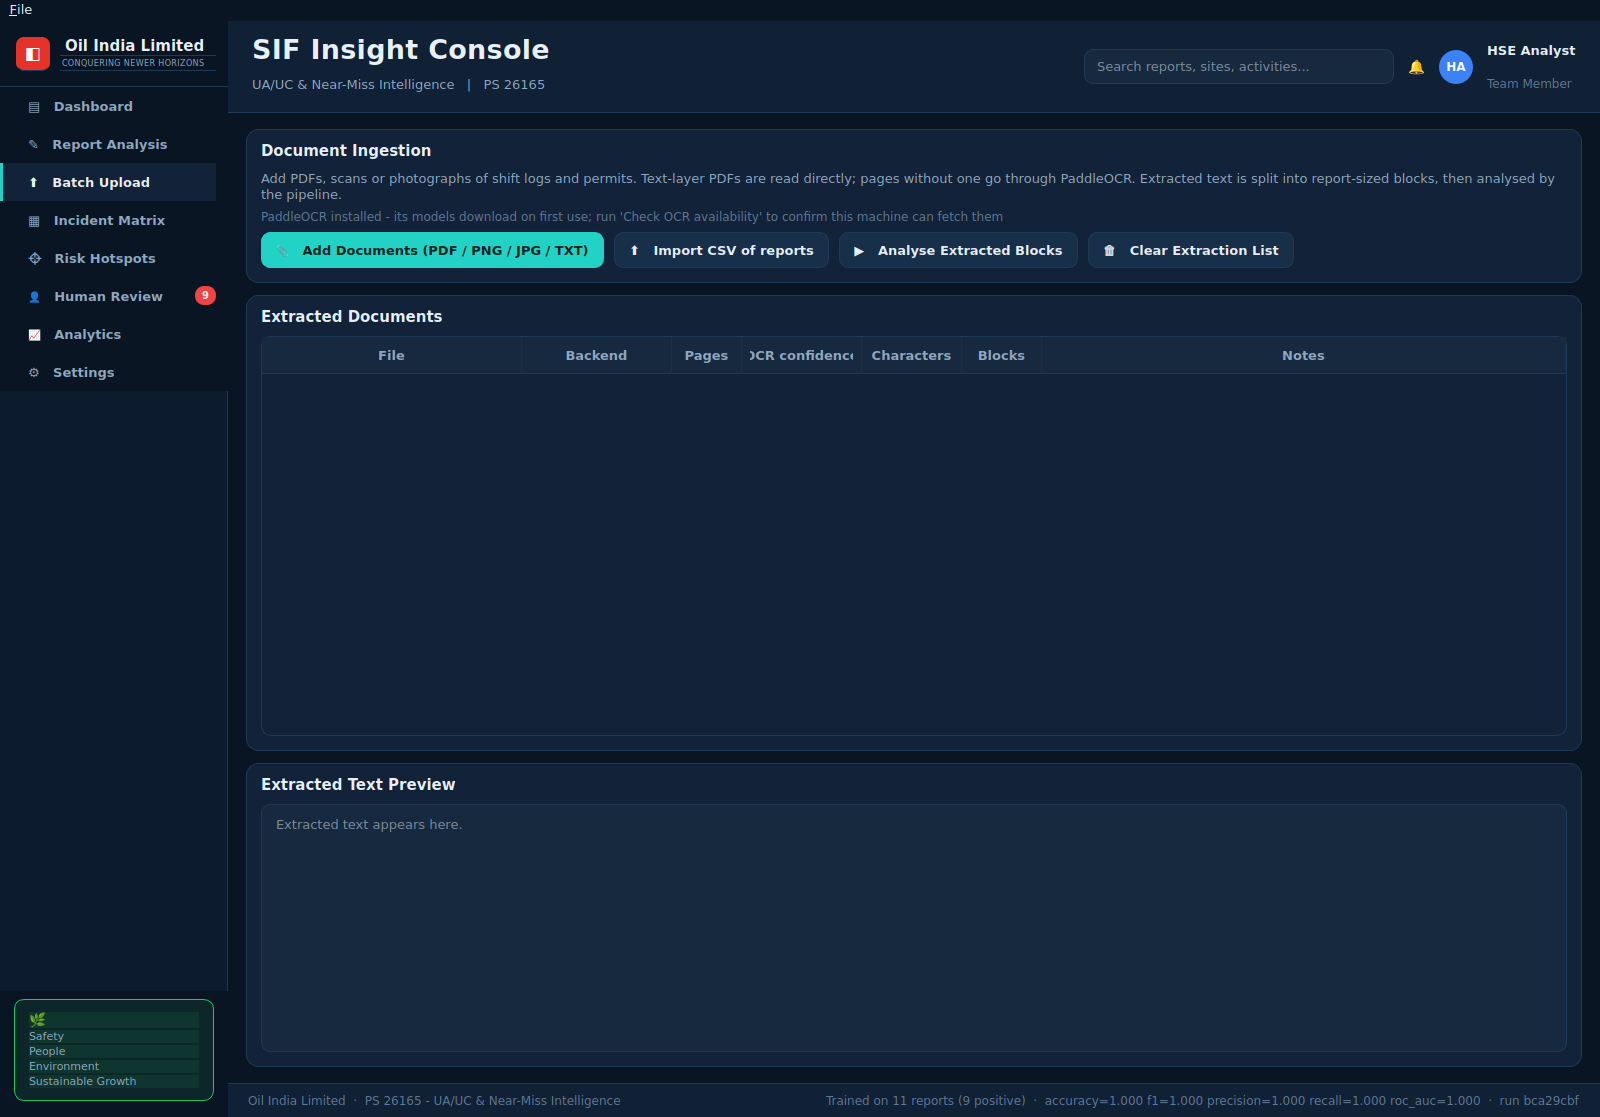
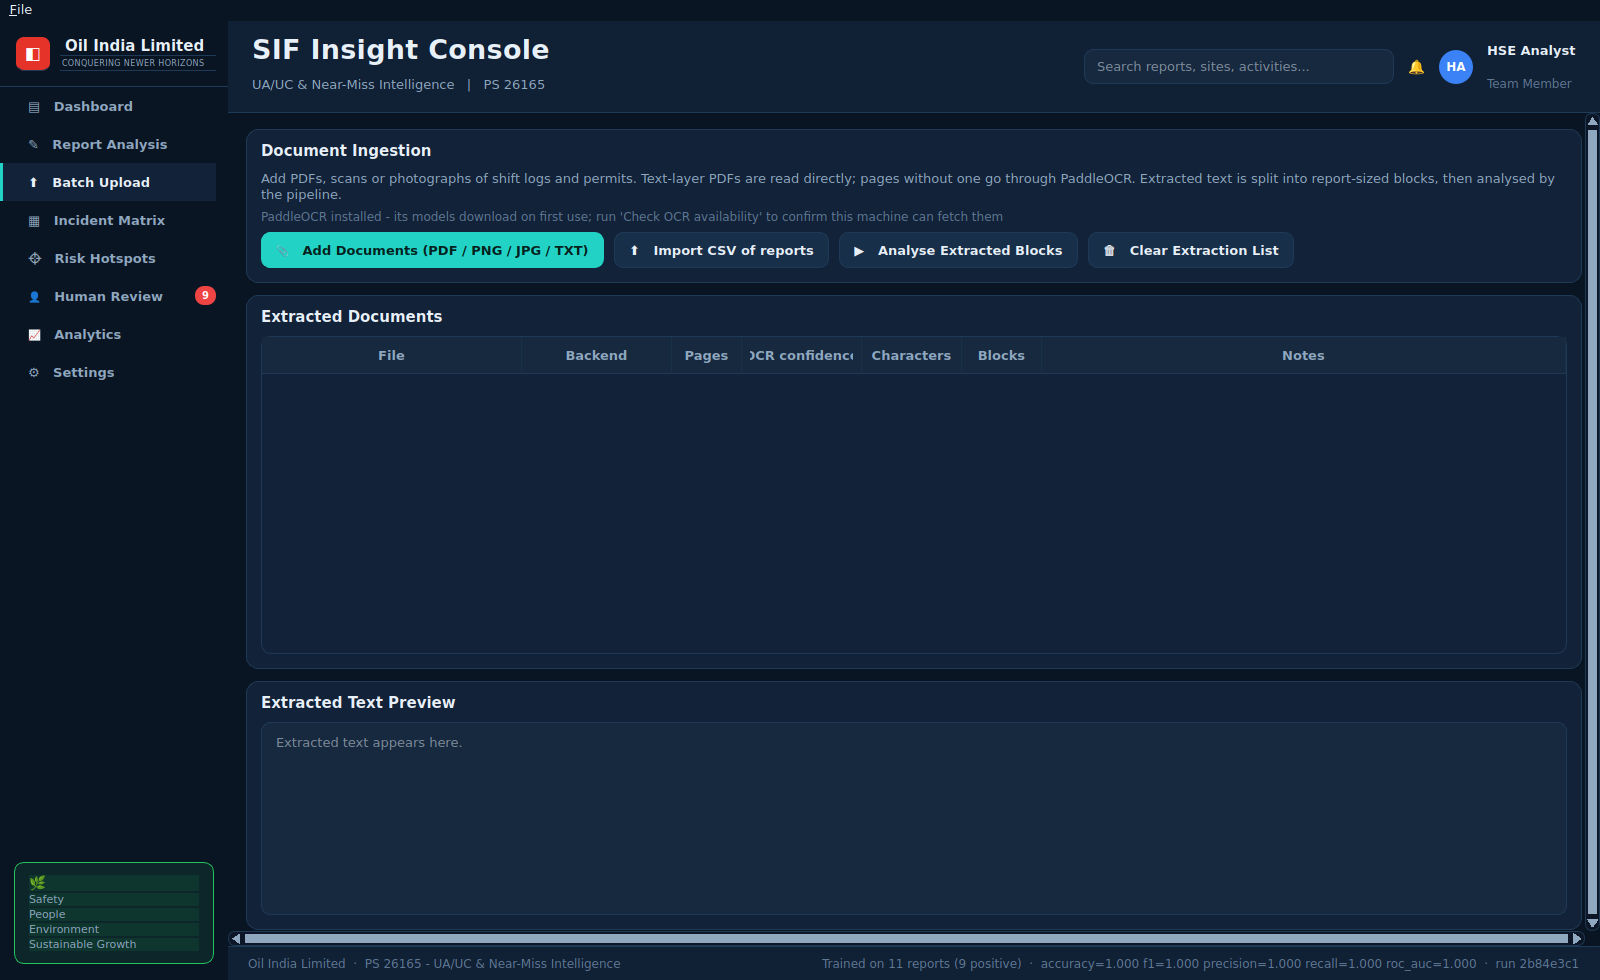
Style the scroll controls and make every page scrollable
Scrollbars now match the rest of the console: a sunken track, a light
rounded thumb with hover and pressed states, and stepper arrows at both
ends. The arrows ship as small PNGs in ui/assets - a Qt style sheet cannot
draw the triangles reliably across styles, and the border trick rendered
them as blocks.

Coverage: the dashboard and batch upload pages now sit in scroll areas
like analytics and settings, each with a minimum content height so a short
window scrolls instead of squeezing the panels flat; the sidebar nav
scrolls when the window is too short for all eight entries; and tables
scroll per pixel in both directions rather than jumping a row at a time.

Verified by rendering the app at 1180x700 and auditing every scrollable
widget on all seven pages: bars appear where content overflows, all at the
themed 15 px size. Two tests keep it honest - one asserts every asset the
style sheet references exists, one that the pages stay scrollable.

diff --git a/ui/theme.py b/ui/theme.py
@@ -8,7 +8,15 @@ The stylesheet is a plain Qt style sheet string; widgets that need painting
 
 from __future__ import annotations
 
-__all__ = ["C", "STYLESHEET", "BAND_COLORS", "SEVERITY_COLORS", "CATEGORICAL"]
+import os
+
+__all__ = ["C", "STYLESHEET", "BAND_COLORS", "SEVERITY_COLORS", "CATEGORICAL", "ASSETS"]
+
+#: Directory holding the small PNG arrows used by the scroll controls. Qt style
+#: sheets cannot draw a triangle reliably across styles, so the stepper arrows
+#: ship as assets and are addressed by absolute path (forward slashes, which Qt
+#: wants on every platform).
+ASSETS = os.path.dirname(os.path.abspath(__file__)).replace(os.sep, "/") + "/assets"
 
 
 class C:
@@ -35,6 +43,11 @@ class C:
     ACCENT_DIM = "#0e7a72"
     BLUE = "#3b82f6"
     PURPLE = "#8b5cf6"
+
+    # Scroll controls.
+    SCROLL_TRACK = "#0c1626"
+    SCROLL_THUMB = "#8fa8c0"
+    SCROLL_THUMB_HOVER = "#b9cde0"
 
     # Status.
     DANGER = "#ef4444"
@@ -187,11 +200,92 @@ QProgressBar {{
     text-align: center;
 }}
 QProgressBar::chunk {{ background-color: {C.ACCENT}; border-radius: 5px; }}
-QScrollBar:vertical {{ background: transparent; width: 10px; margin: 2px; }}
-QScrollBar::handle:vertical {{ background: {C.BORDER}; border-radius: 5px; min-height: 30px; }}
-QScrollBar::add-line, QScrollBar::sub-line {{ height: 0px; width: 0px; }}
-QScrollBar:horizontal {{ background: transparent; height: 10px; margin: 2px; }}
-QScrollBar::handle:horizontal {{ background: {C.BORDER}; border-radius: 5px; min-width: 30px; }}
+/* Scroll controls: a sunken track, a light rounded thumb and stepper arrows at
+   both ends, so it is obvious at a glance that a panel has more content. The
+   arrows are drawn with the CSS border-triangle trick - no image assets. */
+QScrollBar:vertical {{
+    background: {C.SCROLL_TRACK};
+    width: 15px;
+    margin: 0px;
+    border: 1px solid {C.BORDER};
+    border-radius: 7px;
+}}
+QScrollBar::handle:vertical {{
+    background: {C.SCROLL_THUMB};
+    border-radius: 5px;
+    min-height: 34px;
+    margin: 16px 2px 16px 2px;
+}}
+QScrollBar::handle:vertical:hover {{ background: {C.SCROLL_THUMB_HOVER}; }}
+QScrollBar::handle:vertical:pressed {{ background: {C.TEXT}; }}
+QScrollBar::sub-line:vertical {{
+    background: transparent;
+    border: none;
+    height: 16px;
+    subcontrol-position: top;
+    subcontrol-origin: margin;
+}}
+QScrollBar::add-line:vertical {{
+    background: transparent;
+    border: none;
+    height: 16px;
+    subcontrol-position: bottom;
+    subcontrol-origin: margin;
+}}
+QScrollBar::up-arrow:vertical {{
+    image: url({ASSETS}/arrow_up.png);
+    width: 11px;
+    height: 8px;
+}}
+QScrollBar::down-arrow:vertical {{
+    image: url({ASSETS}/arrow_down.png);
+    width: 11px;
+    height: 8px;
+}}
+QScrollBar::up-arrow:vertical:hover {{ image: url({ASSETS}/arrow_up_hover.png); }}
+QScrollBar::down-arrow:vertical:hover {{ image: url({ASSETS}/arrow_down_hover.png); }}
+QScrollBar:horizontal {{
+    background: {C.SCROLL_TRACK};
+    height: 15px;
+    margin: 0px;
+    border: 1px solid {C.BORDER};
+    border-radius: 7px;
+}}
+QScrollBar::handle:horizontal {{
+    background: {C.SCROLL_THUMB};
+    border-radius: 5px;
+    min-width: 34px;
+    margin: 2px 16px 2px 16px;
+}}
+QScrollBar::handle:horizontal:hover {{ background: {C.SCROLL_THUMB_HOVER}; }}
+QScrollBar::handle:horizontal:pressed {{ background: {C.TEXT}; }}
+QScrollBar::sub-line:horizontal {{
+    background: transparent;
+    border: none;
+    width: 16px;
+    subcontrol-position: left;
+    subcontrol-origin: margin;
+}}
+QScrollBar::add-line:horizontal {{
+    background: transparent;
+    border: none;
+    width: 16px;
+    subcontrol-position: right;
+    subcontrol-origin: margin;
+}}
+QScrollBar::left-arrow:horizontal {{
+    image: url({ASSETS}/arrow_left.png);
+    width: 8px;
+    height: 11px;
+}}
+QScrollBar::right-arrow:horizontal {{
+    image: url({ASSETS}/arrow_right.png);
+    width: 8px;
+    height: 11px;
+}}
+QScrollBar::left-arrow:horizontal:hover {{ image: url({ASSETS}/arrow_left_hover.png); }}
+QScrollBar::right-arrow:horizontal:hover {{ image: url({ASSETS}/arrow_right_hover.png); }}
+QScrollBar::add-page, QScrollBar::sub-page {{ background: transparent; }}
 QStatusBar {{ background-color: {C.HEADER}; color: {C.TEXT_DIM}; }}
 QToolTip {{
     background-color: {C.PANEL_ALT};

diff --git a/ui/views.py b/ui/views.py
@@ -9,7 +9,7 @@ from __future__ import annotations
 
 from typing import Dict, Optional, Sequence, Tuple
 
-from PyQt6.QtCore import pyqtSignal
+from PyQt6.QtCore import Qt, pyqtSignal
 from PyQt6.QtWidgets import (
     QCheckBox,
     QComboBox,
@@ -103,12 +103,21 @@ DOCUMENT_COLUMNS: Sequence[Tuple[str, str, int]] = (
 )
 
 
-def _scrollable(widget: QWidget) -> QScrollArea:
-    """Wrap a page so it stays usable on a small screen."""
+def _scrollable(widget: QWidget, minimum_height: int = 0) -> QScrollArea:
+    """Wrap a page so it stays usable on a small screen.
+
+    ``minimum_height`` is the point below which the page stops compressing and
+    starts scrolling instead - without it a Qt layout keeps shrinking its
+    children and the scroll bar never appears.
+    """
+    if minimum_height:
+        widget.setMinimumHeight(minimum_height)
     area = QScrollArea()
     area.setWidgetResizable(True)
     area.setFrameShape(QFrame.Shape.NoFrame)
     area.setWidget(widget)
+    area.setHorizontalScrollBarPolicy(Qt.ScrollBarPolicy.ScrollBarAsNeeded)
+    area.setVerticalScrollBarPolicy(Qt.ScrollBarPolicy.ScrollBarAsNeeded)
     return area
 
 
@@ -123,14 +132,22 @@ class DashboardView(QWidget):
     row_selected = pyqtSignal(int)
     review_requested = pyqtSignal()
 
+    #: Below this the dashboard scrolls instead of squeezing its panels.
+    MIN_CONTENT_HEIGHT = 860
+
     def __init__(self) -> None:
         super().__init__()
-        layout = QVBoxLayout(self)
+        content = QWidget()
+        layout = QVBoxLayout(content)
         layout.setContentsMargins(18, 16, 18, 12)
         layout.setSpacing(14)
         layout.addLayout(self._build_kpis())
         layout.addLayout(self._build_charts(), stretch=2)
         layout.addLayout(self._build_workspace(), stretch=5)
+
+        outer = QVBoxLayout(self)
+        outer.setContentsMargins(0, 0, 0, 0)
+        outer.addWidget(_scrollable(content, self.MIN_CONTENT_HEIGHT))
 
     # -- construction ------------------------------------------------------
 
@@ -441,9 +458,13 @@ class BatchUploadView(QWidget):
     analyse_requested = pyqtSignal()
     clear_requested = pyqtSignal()
 
+    #: Below this the page scrolls instead of squeezing the preview away.
+    MIN_CONTENT_HEIGHT = 720
+
     def __init__(self) -> None:
         super().__init__()
-        layout = QVBoxLayout(self)
+        content = QWidget()
+        layout = QVBoxLayout(content)
         layout.setContentsMargins(18, 16, 18, 16)
         layout.setSpacing(12)
 
@@ -492,6 +513,10 @@ class BatchUploadView(QWidget):
         layout.addWidget(actions)
         layout.addWidget(self.documents, stretch=3)
         layout.addWidget(self.preview, stretch=2)
+
+        outer = QVBoxLayout(self)
+        outer.setContentsMargins(0, 0, 0, 0)
+        outer.addWidget(_scrollable(content, self.MIN_CONTENT_HEIGHT))
 
     def set_status(self, text: str) -> None:
         self.status_label.setText(text)
@@ -551,7 +576,7 @@ class AnalyticsView(QWidget):
 
         outer = QVBoxLayout(self)
         outer.setContentsMargins(0, 0, 0, 0)
-        outer.addWidget(_scrollable(content))
+        outer.addWidget(_scrollable(content, 900))
 
     def update_charts(self, rules, energies, barriers, activities) -> None:
         self.rule_chart.set_data(rules)
@@ -588,7 +613,7 @@ class SettingsView(QWidget):
 
         outer = QVBoxLayout(self)
         outer.setContentsMargins(0, 0, 0, 0)
-        outer.addWidget(_scrollable(content))
+        outer.addWidget(_scrollable(content, 980))
 
     # -- sections ----------------------------------------------------------
 

diff --git a/test_sif.py b/test_sif.py
@@ -666,6 +666,30 @@ class TestModelInPipeline(unittest.TestCase):
         self.assertIsNone(result.ml_probability)
 
 
+class TestTheme(unittest.TestCase):
+    """The style sheet must not reference assets that are missing."""
+
+    def test_every_referenced_asset_exists(self) -> None:
+        from ui.theme import ASSETS, STYLESHEET
+
+        references = [chunk.split(")")[0]
+                      for chunk in STYLESHEET.split("url(")[1:]]
+        self.assertTrue(references, "the scroll controls should reference arrow assets")
+        for path in references:
+            self.assertTrue(os.path.isfile(path), f"missing style asset: {path}")
+        self.assertTrue(os.path.isdir(ASSETS))
+
+    def test_scroll_controls_are_styled(self) -> None:
+        from ui.theme import STYLESHEET
+
+        for selector in ("QScrollBar:vertical", "QScrollBar::handle:vertical",
+                         "QScrollBar::up-arrow:vertical", "QScrollBar::down-arrow:vertical",
+                         "QScrollBar:horizontal", "QScrollBar::handle:horizontal",
+                         "QScrollBar::left-arrow:horizontal",
+                         "QScrollBar::right-arrow:horizontal"):
+            self.assertIn(selector, STYLESHEET)
+
+
 @unittest.skipUnless(HAS_PYQT, "PyQt6 is not installed")
 class TestInterfaceWidgets(unittest.TestCase):
     """The presentation layer renders without a display."""
@@ -725,6 +749,17 @@ class TestInterfaceWidgets(unittest.TestCase):
         self.assertIn("Energy Isolation", view.detail_fields["rule"]._full_value)
         view.show_detail(None)
         self.assertEqual(view.detail_pill.text(), "NO SELECTION")
+
+    def test_pages_scroll_instead_of_squashing(self) -> None:
+        from ui.views import BatchUploadView, DashboardView
+
+        for view_class in (DashboardView, BatchUploadView):
+            view = view_class()
+            view.resize(900, 420)  # deliberately shorter than the content
+            area = view.findChild(__import__("PyQt6.QtWidgets", fromlist=["QScrollArea"])
+                                  .QScrollArea)
+            self.assertIsNotNone(area, f"{view_class.__name__} should be scrollable")
+            self.assertGreaterEqual(area.widget().minimumHeight(), 700)
 
     def test_settings_view_renders_state(self) -> None:
         from ui.views import SettingsView

diff --git a/ui/components.py b/ui/components.py
@@ -14,6 +14,7 @@ from PyQt6.QtWidgets import (
     QAbstractItemView,
     QButtonGroup,
     QFrame,
+    QScrollArea,
     QHBoxLayout,
     QHeaderView,
     QLabel,
@@ -162,6 +163,19 @@ class Sidebar(QFrame):
         layout.setSpacing(0)
         layout.addWidget(self._brand())
 
+        # The nav list scrolls on short screens so the footer card and the last
+        # entries stay reachable instead of being clipped.
+        nav = QWidget()
+        nav_layout = QVBoxLayout(nav)
+        nav_layout.setContentsMargins(0, 0, 0, 0)
+        nav_layout.setSpacing(0)
+
+        scroller = QScrollArea()
+        scroller.setWidgetResizable(True)
+        scroller.setFrameShape(QFrame.Shape.NoFrame)
+        scroller.setHorizontalScrollBarPolicy(Qt.ScrollBarPolicy.ScrollBarAlwaysOff)
+        scroller.setWidget(nav)
+
         group = QButtonGroup(self)
         group.setExclusive(True)
         for key, glyph, label in items:
@@ -187,12 +201,13 @@ class Sidebar(QFrame):
 
             row_layout.addWidget(button, stretch=1)
             row_layout.addWidget(badge)
-            layout.addWidget(row)
+            nav_layout.addWidget(row)
 
             self._buttons[key] = button
             self._badges[key] = badge
 
-        layout.addStretch(1)
+        nav_layout.addStretch(1)
+        layout.addWidget(scroller, stretch=1)
         layout.addWidget(self._footer_card())
 
     def select(self, key: str) -> None:
@@ -352,6 +367,12 @@ class DataTable(QTableWidget):
         self.horizontalHeader().setStretchLastSection(True)
         self.setShowGrid(False)
         self.verticalHeader().setDefaultSectionSize(30)
+        # Per-pixel scrolling so the styled bars track the content smoothly
+        # instead of jumping a whole row (or column) per step.
+        self.setVerticalScrollMode(QAbstractItemView.ScrollMode.ScrollPerPixel)
+        self.setHorizontalScrollMode(QAbstractItemView.ScrollMode.ScrollPerPixel)
+        self.setHorizontalScrollBarPolicy(Qt.ScrollBarPolicy.ScrollBarAsNeeded)
+        self.setVerticalScrollBarPolicy(Qt.ScrollBarPolicy.ScrollBarAsNeeded)
         for index, (_, _, width) in enumerate(columns):
             self.setColumnWidth(index, width)
         if on_select is not None:

diff --git a/README.md b/README.md
@@ -169,7 +169,8 @@ disagreement between the two goes to the human review queue.
 | `sif/ocr.py` | `DocumentExtractor` — plain text, PDF text layer, PaddleOCR for scans; per-line OCR confidence. |
 | `sif/mlops.py` | Features, `SIFModel` (XGBoost), `MLflowTracker`, `MLOpsService`. |
 | `sif/logging_setup.py` | Rotating file + in-memory ring buffer behind the Settings log view. |
-| `ui/` | `theme`, `charts` (painted bar/donut), `components`, `views`. |
+| `ui/` | `theme` (palette, style sheet, scroll-control assets), `charts` (painted bar/donut), `components`, `views`. |
+| `ui/assets/` | Scrollbar stepper arrows - Qt cannot draw a triangle reliably from a style sheet alone. |
 | `sif/lexical.py` | `LexicalEngine` — IOGP, energy, barrier, activity and location knowledge as patterns; the deterministic backbone. Holds the 5 seed narratives. |
 | `sif/prototypes.py` | Natural-language label descriptions for zero-shot semantic classification. |
 | `main.py` | PyQt6 layer: `MainWindow`, `AnalysisWorker` (`QThread`), KPI cards, three panels. |
@@ -194,6 +195,19 @@ problem statement asks for keep their names: `sif_potential`, `iogp_rule`,
 Every extractor degrades to an explicit fallback (`Unclassified / General HSE`,
 `Unspecified activity`, `Location not stated`, `No barrier failure identified`)
 rather than raising, so a malformed row never breaks a batch.
+
+## Scrolling
+
+Every page that can outgrow the window scrolls rather than compressing: the
+dashboard, batch upload, analytics and settings pages each sit in a scroll area
+with a minimum content height, the sidebar nav scrolls on short screens, and all
+tables scroll per pixel in both directions.
+
+The controls themselves are styled to match the rest of the console - a sunken
+track, a light rounded thumb, and stepper arrows at both ends drawn from the PNGs
+in `ui/assets/`, since a Qt style sheet cannot reliably draw the triangles
+itself. A unit test asserts every asset the style sheet references exists, so a
+rename cannot silently leave the arrows blank.
 
 ## Concurrency
 
